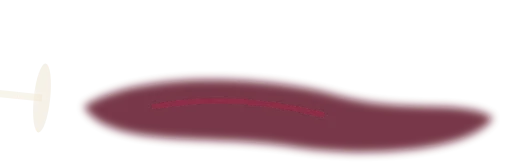
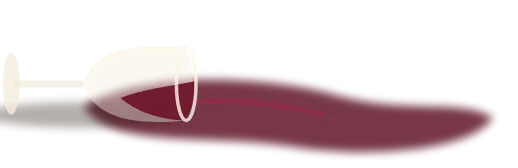
investigación: película del informe con dirección de arte de cine (111 s, acto 5 contado en escena)
Siluetas sin rasgos modeladas por la luz de la vela, salón ya desenfocado, franjas de cine con las etiquetas de alcance
arriba y el diálogo abajo, rótulos en zona limpia. Cada teléfono en una mano con muñeca, antebrazo y manga; toca la otra
mano de la misma persona. Acto 5 con el teléfono del mesero arriba a la derecha (Mesa 7 y su pista de cuatro estados):
abierta, cuenta cerrada, pagada (el cobro, fuera de Carta), mesa sucia y mesa limpia, que queda libre.
Recursos: 59 capas webp (610 KB) desde apoyo/cine/generar.mjs. verificar.mjs: 535 comprobaciones, 0 fallas.

Claude-Session: https://claude.ai/code/session_01T4zNEkueas1kpbmsMUXkGN

Changed region(s): [[0.0, 0.4464, 0.4015, 0.7738], [0.0, 0.3274, 0.0618, 0.5357]]

diff --git a/docs/informes/2026-11-14-planos-de-carta-v4/interactivo.html b/docs/informes/2026-11-14-planos-de-carta-v4/interactivo.html
@@ -8727,15 +8727,15 @@ const CAPAS = {
   "ana-silla": ["apoyo/cine/ana-silla.webp", 302, 562, 220, 520],
   "ana-cuerpo": ["apoyo/cine/ana-cuerpo.webp", 342, 562, 280, 520],
   "ana-cabeza": ["apoyo/cine/ana-cabeza.webp", 372, 428, 160, 190],
-  "ana-brazo": ["apoyo/cine/ana-brazo.webp", 422, 522, 300, 280],
-  "ana-brazo-cel": ["apoyo/cine/ana-brazo-cel.webp", 422, 522, 300, 280],
-  "ana-brazo-copa": ["apoyo/cine/ana-brazo-copa.webp", 422, 522, 300, 280],
+  "ana-brazo": ["apoyo/cine/ana-brazo.webp", 342, 422, 400, 380],
+  "ana-brazo-cel": ["apoyo/cine/ana-brazo-cel.webp", 342, 422, 400, 380],
+  "ana-brazo-copa": ["apoyo/cine/ana-brazo-copa.webp", 342, 422, 400, 380],
   "carlos-silla": ["apoyo/cine/carlos-silla.webp", 1398, 562, 220, 520],
   "carlos-cuerpo": ["apoyo/cine/carlos-cuerpo.webp", 1298, 562, 280, 520],
   "carlos-cabeza": ["apoyo/cine/carlos-cabeza.webp", 1388, 428, 160, 190],
-  "carlos-brazo": ["apoyo/cine/carlos-brazo.webp", 1198, 522, 300, 280],
-  "carlos-brazo-cel": ["apoyo/cine/carlos-brazo-cel.webp", 1198, 522, 300, 280],
-  "carlos-brazo-copa": ["apoyo/cine/carlos-brazo-copa.webp", 1198, 522, 300, 280],
+  "carlos-brazo": ["apoyo/cine/carlos-brazo.webp", 1178, 422, 400, 380],
+  "carlos-brazo-cel": ["apoyo/cine/carlos-brazo-cel.webp", 1178, 422, 400, 380],
+  "carlos-brazo-copa": ["apoyo/cine/carlos-brazo-copa.webp", 1178, 422, 400, 380],
   "mesero-cuerpo": ["apoyo/cine/mesero-cuerpo.webp", 958, 270, 340, 540],
   "mesero-cabeza": ["apoyo/cine/mesero-cabeza.webp", 1048, 162, 160, 190],
   "mesero-brazos": ["apoyo/cine/mesero-brazos.webp", 738, 440, 720, 380],
@@ -8786,7 +8786,8 @@ const CAPAS = {
 /* CAPAS:fin */
 const CAP = {bien: "apoyo/bienvenida.webp", menu: "apoyo/menu-inicio.webp"};
 const CI = n => CAPAS[n][0];
-/* [id, acto, duración en s, etiquetas, rótulo (la cursiva entre *), posición del rótulo, retraso del rótulo en s, segundos que dura el rótulo] */
+/* [id, acto, duración en s, etiquetas, rótulo (la cursiva entre *), posición del rótulo, retraso del rótulo en s, segundos que dura el rótulo,
+   fracción de la toma que sirve de cuadro fijo en el guion gráfico (0.82 si no se dice)] */
 const F3 = [["f3", "Fase 3"]];
 const TOMAS = [
   ["mesa", 1, 5.5, [["hoy", "hoy · el QR de cada mesa"]], ["Todo empieza en *la mesa*."], "hook", 0.6],
@@ -8799,13 +8800,13 @@ const TOMAS = [
   ["juntos", 3, 7, F3, ["La mesa *pide junta*."], "hook", 1.4],
   ["recomienda", 3, 7, [["vis", "visión · recomendar a otro de la mesa"]], ["Pásaselo *a Carlos*."], "centro"],
   ["confirma", 3, 4.5, F3, ["La mesa *llama al mesero*."], "centro"],
-  ["avisa", 4, 8, [["f3", "Fase 3"], ["vis", "visión · aviso con el teléfono bloqueado"]], ["Le vibra", "*el bolsillo*."], "izq", 0.2, 5.6],
+  ["avisa", 4, 8, [["f3", "Fase 3"], ["vis", "visión · aviso con el teléfono bloqueado"]], ["Le vibra", "*el bolsillo*."], "izq", 0.2, 5.6, 0.7],
   ["llega", 4, 6.5, F3, ["Confirma *y la manda*."], "arriba"],
   ["abierta", 5, 6.5, F3, ["Abierta"], "fase", 0.8],
   ["cerrada", 5, 6, F3, ["Cuenta *cerrada*"], "fase"],
   ["pagada", 5, 6.5, [["f3", "Fase 3"], ["ej", "el cobro, fuera de Carta"]], ["Pagada"], "fase", 3.6],
   ["sucia", 5, 5, F3, ["Mesa *sucia*"], "fase", 1.2],
-  ["limpia", 5, 5.5, F3, ["Mesa *limpia*"], "fase", 1.6, 4.3],
+  ["limpia", 5, 5.5, F3, ["Mesa *limpia*"], "fase", 1.6, 3.4],
   ["fin", 6, 5, [], [], ""],
 ];
 const ACTOS = [[1, "Llegar"], [2, "Tu carta"], [3, "La mesa"], [4, "El mesero"], [5, "El ciclo"], [6, "Fin"]];
@@ -8815,7 +8816,7 @@ const tomaIni = id => T0[TOMAS.findIndex(t => t[0] === id)];
 const ACT_INI = ACTOS.map(([n]) => T0[TOMAS.findIndex(t => t[1] === n)]);
 const ACT_FIN = ACTOS.map((_, k) => (k + 1 < ACTOS.length ? ACT_INI[k + 1] : TOT));
 /* instantes de guion gráfico (movimiento reducido): el momento de cada toma en que ya está todo en pantalla */
-const CLAVES = TOMAS.map((t, i) => T0[i] + t[2] * 0.82);
+const CLAVES = TOMAS.map((t, i) => T0[i] + t[2] * (t[8] || 0.82));
 let tI = 0, pausaI = false, rafI = 0, ultI = 0, ocultoT = 0, tlF = null;
 
 const cineCss = `
@@ -8839,7 +8840,7 @@ const cineCss = `
 #cine .buzz i{position:absolute;inset:0;border-radius:50%;border:4px solid #fdc34d;border-left-color:transparent;border-bottom-color:transparent}
 #cine .buzz i+i{inset:-14px}
 /* cine: grano, viñeta y franjas */
-#cine .grano{position:absolute;inset:0;z-index:5;background:url(${CI("grano")});opacity:.34;mix-blend-mode:overlay;pointer-events:none;animation:cgrano .5s steps(1) infinite}
+#cine .grano{position:absolute;inset:0;z-index:5;background:url(${CI("grano")});opacity:.09;pointer-events:none;animation:cgrano .5s steps(1) infinite}
 @keyframes cgrano{0%{background-position:0 0}25%{background-position:-90px 60px}50%{background-position:70px -110px}75%{background-position:-40px -50px}}
 @media(prefers-reduced-motion:reduce){#cine .grano{animation:none}}
 #cine .vin{position:absolute;left:0;right:0;top:100px;bottom:100px;z-index:5;pointer-events:none;background:radial-gradient(ellipse 76% 82% at 50% 54%,rgba(10,6,5,0) 50%,rgba(10,6,5,.66) 100%)}
@@ -9069,8 +9070,8 @@ const ico = {
 };
 const sb = (osc = false) => `<div class="sb${osc ? " osc" : ""}"><b>9:41</b><i></i><u></u></div>`;
 const cab = (mia = false) => `<div class="cab"><span class="lg">L</span>La Ceiba${mia ? `<span class="mia">Mi mesa <span class="av ca">A</span><span class="av cc">C</span><span class="bd">1</span></span>` : ""}</div>`;
-const cFila = (img, nom, pr, no = "") => `<div class="cfila${no ? " cfuera" : ""}"><img src="${CI("plato-" + img)}" alt=""><div><b>${nom}</b><small>${pr}</small></div>${no ? `<span class="cno">${no}</span>` : ""}</div>`;
-const tarjeta = (img, nom, pr, porq) => `<div class="tj"><div class="fo"><img src="${CI("plato-" + img)}" alt=""></div><div class="ctx"><b>${nom}</b><small>${porq}</small><span class="cpr">${pr}</span></div></div>`;
+const cRen = (img, nom, pr, no = "") => `<div class="cfila${no ? " cfuera" : ""}"><img src="${CI("plato-" + img)}" alt=""><div><b>${nom}</b><small>${pr}</small></div>${no ? `<span class="cno">${no}</span>` : ""}</div>`;
+const cTarj = (img, nom, pr, porq) => `<div class="tj"><div class="fo"><img src="${CI("plato-" + img)}" alt=""></div><div class="ctx"><b>${nom}</b><small>${porq}</small><span class="cpr">${pr}</span></div></div>`;
 
 const torno = () => `<div class="torno"><i class="som"></i><i class="aro360"></i>
   <div class="capa" style="transform:scaleY(.5)"><img src="${CI("torno-plato")}" alt=""></div>
@@ -9088,16 +9089,16 @@ const pantallas = () => `
   <div class="carga"><span>Afilando los cuchillos…</span><span>Calentando el comal…</span><span>Probando la salsa…</span></div>
   <div class="cchips"><span class="cchip">${ico.no}sin lácteos</span><span class="cchip">${ico.no}sin cacahuate</span></div>
   <div class="tel">${ico.tel}Se queda en tu teléfono</div>
-  <div class="clista">${cFila("aguachile", "Aguachile verde", "$210")}${cFila("enchiladas", "Enchiladas suizas", "$165", "lácteos")}${cFila("pescado", "Pescado a la talla", "$245")}${cFila("mole", "Mole negro", "$190", "cacahuate")}${cFila("ensalada", "Ensalada de betabel", "$140")}${cFila("tacos", "Tacos de pescado", "$175")}</div>
+  <div class="clista">${cRen("aguachile", "Aguachile verde", "$210")}${cRen("enchiladas", "Enchiladas suizas", "$165", "lácteos")}${cRen("pescado", "Pescado a la talla", "$245")}${cRen("mole", "Mole negro", "$190", "cacahuate")}${cRen("ensalada", "Ensalada de betabel", "$140")}${cRen("tacos", "Tacos de pescado", "$175")}</div>
   <div class="clisto">${ico.ok}Listo: tu carta</div>
 </div>
 <div class="cs cx pTop3">${sb()}${cab(true)}
   <div class="sec"><h4>Top 3 para ti</h4><span class="es">✦</span></div>
   <div class="porq">${ico.tel}Por lo que te gustó en otros lugares</div>
-  <div class="tira"><div class="rail">${tarjeta("pescado", "Pescado a la talla", "$245", "Te gustó el zarandeado en El Faro")}${tarjeta("aguachile", "Aguachile verde", "$210", "Pediste ceviche 3 veces")}${tarjeta("ensalada", "Ensalada de betabel", "$140", "Sin lácteos, como te gusta")}</div></div>
+  <div class="tira"><div class="rail">${cTarj("pescado", "Pescado a la talla", "$245", "Te gustó el zarandeado en El Faro")}${cTarj("aguachile", "Aguachile verde", "$210", "Pediste ceviche 3 veces")}${cTarj("ensalada", "Ensalada de betabel", "$140", "Sin lácteos, como te gusta")}</div></div>
   <div class="sec"><h4>La carta</h4></div>
   <div class="cats"><span>Para empezar</span><span>Del mar</span><span>Postres</span></div>
-  <div class="clista">${cFila("tacos", "Tacos de pescado", "$175")}${cFila("flan", "Flan de la casa", "$85")}</div>
+  <div class="clista">${cRen("tacos", "Tacos de pescado", "$175")}${cRen("flan", "Flan de la casa", "$85")}</div>
 </div>
 <div class="cs cx pPlato">${torno()}
   ${sb(true)}<span class="vuelta">← La carta</span>
@@ -9113,7 +9114,7 @@ const pantallas = () => `
 <div class="cs cx pAviso">${sb()}${cab(true)}
   <div class="avisoT">${ico.chispa}<span>Llegaste hace poco a Carta: aún sé poco de tus gustos.</span></div>
   <div class="sec"><h4>Platos fuertes</h4></div>
-  <div class="clista">${cFila("res", "Arrachera", "$230")}${cFila("tacos", "Tacos de pescado", "$175")}${cFila("aguachile", "Aguachile verde", "$210")}</div>
+  <div class="clista">${cRen("res", "Arrachera", "$230")}${cRen("tacos", "Tacos de pescado", "$175")}${cRen("aguachile", "Aguachile verde", "$210")}</div>
 </div>
 <div class="cs cx pRes"><div class="hero"><img src="${CI("plato-res")}" alt=""></div>${sb(true)}<span class="vuelta">← La carta</span>
   <div class="ficha"><h4>Arrachera</h4><div class="cpr">$230</div><div class="reco">Para compartir, al término que pidas.</div></div>
@@ -9126,7 +9127,7 @@ ${listos("pListosA")}
 const pantallasB = () => `
 <div class="cs cx pCarlos">${sb()}${cab(true)}
   <div class="hola"><span class="av cc">C</span><h4>Hola, Carlos</h4></div>
-  <div class="clista">${cFila("tacos", "Tacos de pescado", "$175")}${cFila("aguachile", "Aguachile verde", "$210")}${cFila("flan", "Flan de la casa", "$85")}</div>
+  <div class="clista">${cRen("tacos", "Tacos de pescado", "$175")}${cRen("aguachile", "Aguachile verde", "$210")}${cRen("flan", "Flan de la casa", "$85")}</div>
   <div class="reco2"><div class="de"><span class="av ca">A</span>Ana te recomienda</div><div class="pl"><img src="${CI("plato-res")}" alt=""><div><b>Arrachera</b><br><small>$230</small></div></div><div class="me">Me encanta</div></div>
   <div class="toast">${ico.ok}Arrachera, en tu orden</div>
   <div class="btn2 v conf">Confirmar mi orden · $230</div>
@@ -9499,13 +9500,13 @@ function filmLinea() {
   tl.to(q(".gm"), {x: 220, autoAlpha: 0, duration: 0.9, ease: "power2.in"}, t + 2.9);
   cam(t + 3.0, C1, 2.2);
   tl.to(q(".pip"), {autoAlpha: 0, x: 60, duration: 0.6, ease: "power2.in"}, t + 3.2);
-  sale(".reloj, .eLibre", t + 4.2, 0.4);
-  tl.fromTo(q(".k-nuevos"), {autoAlpha: 0, x: -360}, {autoAlpha: 1, x: 0, duration: 2.0, ease: "power2.out", immediateRender: false}, t + 3.4);
+  sale(".eLibre", t + 3.3, 0.3); sale(".reloj", t + 4.2, 0.4);
+  tl.fromTo(q(".k-nuevos"), {autoAlpha: 0, x: -360}, {autoAlpha: 1, x: 0, duration: 1.9, ease: "power2.out", immediateRender: false}, t + 3.6);
   /* cierre */
   t = T("fin");
   sale(".sala", t + 0.1, 0.9);
-  tl.set(q(".marca"), {autoAlpha: 1}, t + 0.7);
-  tl.fromTo(q(".marca b, .marca i, .marca span"), {y: 24, autoAlpha: 0}, {y: 0, autoAlpha: 1, duration: 1.0, ease: "power3.out", stagger: 0.3, immediateRender: false}, t + 0.7);
+  tl.set(q(".marca"), {autoAlpha: 1}, t + 1.1);
+  tl.fromTo(q(".marca b, .marca i, .marca span"), {y: 24, autoAlpha: 0}, {y: 0, autoAlpha: 1, duration: 1.0, ease: "power3.out", stagger: 0.3, immediateRender: false}, t + 1.1);
   tl.set({}, {}, TOT);
   return tl;
 }
@@ -9518,7 +9519,7 @@ function pintaIntro() {
   $$("#intro .barras i b").forEach((b, i) => { b.style.width = (i < k ? 100 : i === k ? 100 * (s - ACT_INI[i]) / (ACT_FIN[i] - ACT_INI[i]) : 0) + "%"; });
   $$("#intro .cactos [data-n]").forEach(b => b.classList.toggle("on", +b.dataset.n === k));
   const bp = $("#introPausa"); if (bp) bp.textContent = pausaI ? "▶" : "❚❚";
-  const cta = $("#introCta"); if (cta) cta.hidden = s < tomaIni("fin") + 1.6;
+  const cta = $("#introCta"); if (cta) cta.hidden = s < tomaIni("fin") + 2.6;
 }
 function irActo(k) { tI = (REDUCE ? CLAVES[TOMAS.findIndex(t => t[1] === ACTOS[k][0])] : ACT_INI[k]) * 1000; pintaIntro(); }
 function saltaI(ms) {

diff --git a/docs/informes/2026-11-14-planos-de-carta-v4/js/e2_film.js b/docs/informes/2026-11-14-planos-de-carta-v4/js/e2_film.js
@@ -16,15 +16,15 @@ const CAPAS = {
   "ana-silla": ["apoyo/cine/ana-silla.webp", 302, 562, 220, 520],
   "ana-cuerpo": ["apoyo/cine/ana-cuerpo.webp", 342, 562, 280, 520],
   "ana-cabeza": ["apoyo/cine/ana-cabeza.webp", 372, 428, 160, 190],
-  "ana-brazo": ["apoyo/cine/ana-brazo.webp", 422, 522, 300, 280],
-  "ana-brazo-cel": ["apoyo/cine/ana-brazo-cel.webp", 422, 522, 300, 280],
-  "ana-brazo-copa": ["apoyo/cine/ana-brazo-copa.webp", 422, 522, 300, 280],
+  "ana-brazo": ["apoyo/cine/ana-brazo.webp", 342, 422, 400, 380],
+  "ana-brazo-cel": ["apoyo/cine/ana-brazo-cel.webp", 342, 422, 400, 380],
+  "ana-brazo-copa": ["apoyo/cine/ana-brazo-copa.webp", 342, 422, 400, 380],
   "carlos-silla": ["apoyo/cine/carlos-silla.webp", 1398, 562, 220, 520],
   "carlos-cuerpo": ["apoyo/cine/carlos-cuerpo.webp", 1298, 562, 280, 520],
   "carlos-cabeza": ["apoyo/cine/carlos-cabeza.webp", 1388, 428, 160, 190],
-  "carlos-brazo": ["apoyo/cine/carlos-brazo.webp", 1198, 522, 300, 280],
-  "carlos-brazo-cel": ["apoyo/cine/carlos-brazo-cel.webp", 1198, 522, 300, 280],
-  "carlos-brazo-copa": ["apoyo/cine/carlos-brazo-copa.webp", 1198, 522, 300, 280],
+  "carlos-brazo": ["apoyo/cine/carlos-brazo.webp", 1178, 422, 400, 380],
+  "carlos-brazo-cel": ["apoyo/cine/carlos-brazo-cel.webp", 1178, 422, 400, 380],
+  "carlos-brazo-copa": ["apoyo/cine/carlos-brazo-copa.webp", 1178, 422, 400, 380],
   "mesero-cuerpo": ["apoyo/cine/mesero-cuerpo.webp", 958, 270, 340, 540],
   "mesero-cabeza": ["apoyo/cine/mesero-cabeza.webp", 1048, 162, 160, 190],
   "mesero-brazos": ["apoyo/cine/mesero-brazos.webp", 738, 440, 720, 380],
@@ -75,7 +75,8 @@ const CAPAS = {
 /* CAPAS:fin */
 const CAP = {bien: "apoyo/bienvenida.webp", menu: "apoyo/menu-inicio.webp"};
 const CI = n => CAPAS[n][0];
-/* [id, acto, duración en s, etiquetas, rótulo (la cursiva entre *), posición del rótulo, retraso del rótulo en s, segundos que dura el rótulo] */
+/* [id, acto, duración en s, etiquetas, rótulo (la cursiva entre *), posición del rótulo, retraso del rótulo en s, segundos que dura el rótulo,
+   fracción de la toma que sirve de cuadro fijo en el guion gráfico (0.82 si no se dice)] */
 const F3 = [["f3", "Fase 3"]];
 const TOMAS = [
   ["mesa", 1, 5.5, [["hoy", "hoy · el QR de cada mesa"]], ["Todo empieza en *la mesa*."], "hook", 0.6],
@@ -88,13 +89,13 @@ const TOMAS = [
   ["juntos", 3, 7, F3, ["La mesa *pide junta*."], "hook", 1.4],
   ["recomienda", 3, 7, [["vis", "visión · recomendar a otro de la mesa"]], ["Pásaselo *a Carlos*."], "centro"],
   ["confirma", 3, 4.5, F3, ["La mesa *llama al mesero*."], "centro"],
-  ["avisa", 4, 8, [["f3", "Fase 3"], ["vis", "visión · aviso con el teléfono bloqueado"]], ["Le vibra", "*el bolsillo*."], "izq", 0.2, 5.6],
+  ["avisa", 4, 8, [["f3", "Fase 3"], ["vis", "visión · aviso con el teléfono bloqueado"]], ["Le vibra", "*el bolsillo*."], "izq", 0.2, 5.6, 0.7],
   ["llega", 4, 6.5, F3, ["Confirma *y la manda*."], "arriba"],
   ["abierta", 5, 6.5, F3, ["Abierta"], "fase", 0.8],
   ["cerrada", 5, 6, F3, ["Cuenta *cerrada*"], "fase"],
   ["pagada", 5, 6.5, [["f3", "Fase 3"], ["ej", "el cobro, fuera de Carta"]], ["Pagada"], "fase", 3.6],
   ["sucia", 5, 5, F3, ["Mesa *sucia*"], "fase", 1.2],
-  ["limpia", 5, 5.5, F3, ["Mesa *limpia*"], "fase", 1.6, 4.3],
+  ["limpia", 5, 5.5, F3, ["Mesa *limpia*"], "fase", 1.6, 3.4],
   ["fin", 6, 5, [], [], ""],
 ];
 const ACTOS = [[1, "Llegar"], [2, "Tu carta"], [3, "La mesa"], [4, "El mesero"], [5, "El ciclo"], [6, "Fin"]];
@@ -104,7 +105,7 @@ const tomaIni = id => T0[TOMAS.findIndex(t => t[0] === id)];
 const ACT_INI = ACTOS.map(([n]) => T0[TOMAS.findIndex(t => t[1] === n)]);
 const ACT_FIN = ACTOS.map((_, k) => (k + 1 < ACTOS.length ? ACT_INI[k + 1] : TOT));
 /* instantes de guion gráfico (movimiento reducido): el momento de cada toma en que ya está todo en pantalla */
-const CLAVES = TOMAS.map((t, i) => T0[i] + t[2] * 0.82);
+const CLAVES = TOMAS.map((t, i) => T0[i] + t[2] * (t[8] || 0.82));
 let tI = 0, pausaI = false, rafI = 0, ultI = 0, ocultoT = 0, tlF = null;
 
 const cineCss = `
@@ -128,7 +129,7 @@ const cineCss = `
 #cine .buzz i{position:absolute;inset:0;border-radius:50%;border:4px solid #fdc34d;border-left-color:transparent;border-bottom-color:transparent}
 #cine .buzz i+i{inset:-14px}
 /* cine: grano, viñeta y franjas */
-#cine .grano{position:absolute;inset:0;z-index:5;background:url(${CI("grano")});opacity:.34;mix-blend-mode:overlay;pointer-events:none;animation:cgrano .5s steps(1) infinite}
+#cine .grano{position:absolute;inset:0;z-index:5;background:url(${CI("grano")});opacity:.09;pointer-events:none;animation:cgrano .5s steps(1) infinite}
 @keyframes cgrano{0%{background-position:0 0}25%{background-position:-90px 60px}50%{background-position:70px -110px}75%{background-position:-40px -50px}}
 @media(prefers-reduced-motion:reduce){#cine .grano{animation:none}}
 #cine .vin{position:absolute;left:0;right:0;top:100px;bottom:100px;z-index:5;pointer-events:none;background:radial-gradient(ellipse 76% 82% at 50% 54%,rgba(10,6,5,0) 50%,rgba(10,6,5,.66) 100%)}
@@ -358,8 +359,8 @@ const ico = {
 };
 const sb = (osc = false) => `<div class="sb${osc ? " osc" : ""}"><b>9:41</b><i></i><u></u></div>`;
 const cab = (mia = false) => `<div class="cab"><span class="lg">L</span>La Ceiba${mia ? `<span class="mia">Mi mesa <span class="av ca">A</span><span class="av cc">C</span><span class="bd">1</span></span>` : ""}</div>`;
-const cFila = (img, nom, pr, no = "") => `<div class="cfila${no ? " cfuera" : ""}"><img src="${CI("plato-" + img)}" alt=""><div><b>${nom}</b><small>${pr}</small></div>${no ? `<span class="cno">${no}</span>` : ""}</div>`;
-const tarjeta = (img, nom, pr, porq) => `<div class="tj"><div class="fo"><img src="${CI("plato-" + img)}" alt=""></div><div class="ctx"><b>${nom}</b><small>${porq}</small><span class="cpr">${pr}</span></div></div>`;
+const cRen = (img, nom, pr, no = "") => `<div class="cfila${no ? " cfuera" : ""}"><img src="${CI("plato-" + img)}" alt=""><div><b>${nom}</b><small>${pr}</small></div>${no ? `<span class="cno">${no}</span>` : ""}</div>`;
+const cTarj = (img, nom, pr, porq) => `<div class="tj"><div class="fo"><img src="${CI("plato-" + img)}" alt=""></div><div class="ctx"><b>${nom}</b><small>${porq}</small><span class="cpr">${pr}</span></div></div>`;
 
 const torno = () => `<div class="torno"><i class="som"></i><i class="aro360"></i>
   <div class="capa" style="transform:scaleY(.5)"><img src="${CI("torno-plato")}" alt=""></div>
@@ -377,16 +378,16 @@ const pantallas = () => `
   <div class="carga"><span>Afilando los cuchillos…</span><span>Calentando el comal…</span><span>Probando la salsa…</span></div>
   <div class="cchips"><span class="cchip">${ico.no}sin lácteos</span><span class="cchip">${ico.no}sin cacahuate</span></div>
   <div class="tel">${ico.tel}Se queda en tu teléfono</div>
-  <div class="clista">${cFila("aguachile", "Aguachile verde", "$210")}${cFila("enchiladas", "Enchiladas suizas", "$165", "lácteos")}${cFila("pescado", "Pescado a la talla", "$245")}${cFila("mole", "Mole negro", "$190", "cacahuate")}${cFila("ensalada", "Ensalada de betabel", "$140")}${cFila("tacos", "Tacos de pescado", "$175")}</div>
+  <div class="clista">${cRen("aguachile", "Aguachile verde", "$210")}${cRen("enchiladas", "Enchiladas suizas", "$165", "lácteos")}${cRen("pescado", "Pescado a la talla", "$245")}${cRen("mole", "Mole negro", "$190", "cacahuate")}${cRen("ensalada", "Ensalada de betabel", "$140")}${cRen("tacos", "Tacos de pescado", "$175")}</div>
   <div class="clisto">${ico.ok}Listo: tu carta</div>
 </div>
 <div class="cs cx pTop3">${sb()}${cab(true)}
   <div class="sec"><h4>Top 3 para ti</h4><span class="es">✦</span></div>
   <div class="porq">${ico.tel}Por lo que te gustó en otros lugares</div>
-  <div class="tira"><div class="rail">${tarjeta("pescado", "Pescado a la talla", "$245", "Te gustó el zarandeado en El Faro")}${tarjeta("aguachile", "Aguachile verde", "$210", "Pediste ceviche 3 veces")}${tarjeta("ensalada", "Ensalada de betabel", "$140", "Sin lácteos, como te gusta")}</div></div>
+  <div class="tira"><div class="rail">${cTarj("pescado", "Pescado a la talla", "$245", "Te gustó el zarandeado en El Faro")}${cTarj("aguachile", "Aguachile verde", "$210", "Pediste ceviche 3 veces")}${cTarj("ensalada", "Ensalada de betabel", "$140", "Sin lácteos, como te gusta")}</div></div>
   <div class="sec"><h4>La carta</h4></div>
   <div class="cats"><span>Para empezar</span><span>Del mar</span><span>Postres</span></div>
-  <div class="clista">${cFila("tacos", "Tacos de pescado", "$175")}${cFila("flan", "Flan de la casa", "$85")}</div>
+  <div class="clista">${cRen("tacos", "Tacos de pescado", "$175")}${cRen("flan", "Flan de la casa", "$85")}</div>
 </div>
 <div class="cs cx pPlato">${torno()}
   ${sb(true)}<span class="vuelta">← La carta</span>
@@ -402,7 +403,7 @@ const pantallas = () => `
 <div class="cs cx pAviso">${sb()}${cab(true)}
   <div class="avisoT">${ico.chispa}<span>Llegaste hace poco a Carta: aún sé poco de tus gustos.</span></div>
   <div class="sec"><h4>Platos fuertes</h4></div>
-  <div class="clista">${cFila("res", "Arrachera", "$230")}${cFila("tacos", "Tacos de pescado", "$175")}${cFila("aguachile", "Aguachile verde", "$210")}</div>
+  <div class="clista">${cRen("res", "Arrachera", "$230")}${cRen("tacos", "Tacos de pescado", "$175")}${cRen("aguachile", "Aguachile verde", "$210")}</div>
 </div>
 <div class="cs cx pRes"><div class="hero"><img src="${CI("plato-res")}" alt=""></div>${sb(true)}<span class="vuelta">← La carta</span>
   <div class="ficha"><h4>Arrachera</h4><div class="cpr">$230</div><div class="reco">Para compartir, al término que pidas.</div></div>
@@ -415,7 +416,7 @@ ${listos("pListosA")}
 const pantallasB = () => `
 <div class="cs cx pCarlos">${sb()}${cab(true)}
   <div class="hola"><span class="av cc">C</span><h4>Hola, Carlos</h4></div>
-  <div class="clista">${cFila("tacos", "Tacos de pescado", "$175")}${cFila("aguachile", "Aguachile verde", "$210")}${cFila("flan", "Flan de la casa", "$85")}</div>
+  <div class="clista">${cRen("tacos", "Tacos de pescado", "$175")}${cRen("aguachile", "Aguachile verde", "$210")}${cRen("flan", "Flan de la casa", "$85")}</div>
   <div class="reco2"><div class="de"><span class="av ca">A</span>Ana te recomienda</div><div class="pl"><img src="${CI("plato-res")}" alt=""><div><b>Arrachera</b><br><small>$230</small></div></div><div class="me">Me encanta</div></div>
   <div class="toast">${ico.ok}Arrachera, en tu orden</div>
   <div class="btn2 v conf">Confirmar mi orden · $230</div>
@@ -788,13 +789,13 @@ function filmLinea() {
   tl.to(q(".gm"), {x: 220, autoAlpha: 0, duration: 0.9, ease: "power2.in"}, t + 2.9);
   cam(t + 3.0, C1, 2.2);
   tl.to(q(".pip"), {autoAlpha: 0, x: 60, duration: 0.6, ease: "power2.in"}, t + 3.2);
-  sale(".reloj, .eLibre", t + 4.2, 0.4);
-  tl.fromTo(q(".k-nuevos"), {autoAlpha: 0, x: -360}, {autoAlpha: 1, x: 0, duration: 2.0, ease: "power2.out", immediateRender: false}, t + 3.4);
+  sale(".eLibre", t + 3.3, 0.3); sale(".reloj", t + 4.2, 0.4);
+  tl.fromTo(q(".k-nuevos"), {autoAlpha: 0, x: -360}, {autoAlpha: 1, x: 0, duration: 1.9, ease: "power2.out", immediateRender: false}, t + 3.6);
   /* cierre */
   t = T("fin");
   sale(".sala", t + 0.1, 0.9);
-  tl.set(q(".marca"), {autoAlpha: 1}, t + 0.7);
-  tl.fromTo(q(".marca b, .marca i, .marca span"), {y: 24, autoAlpha: 0}, {y: 0, autoAlpha: 1, duration: 1.0, ease: "power3.out", stagger: 0.3, immediateRender: false}, t + 0.7);
+  tl.set(q(".marca"), {autoAlpha: 1}, t + 1.1);
+  tl.fromTo(q(".marca b, .marca i, .marca span"), {y: 24, autoAlpha: 0}, {y: 0, autoAlpha: 1, duration: 1.0, ease: "power3.out", stagger: 0.3, immediateRender: false}, t + 1.1);
   tl.set({}, {}, TOT);
   return tl;
 }
@@ -807,7 +808,7 @@ function pintaIntro() {
   $$("#intro .barras i b").forEach((b, i) => { b.style.width = (i < k ? 100 : i === k ? 100 * (s - ACT_INI[i]) / (ACT_FIN[i] - ACT_INI[i]) : 0) + "%"; });
   $$("#intro .cactos [data-n]").forEach(b => b.classList.toggle("on", +b.dataset.n === k));
   const bp = $("#introPausa"); if (bp) bp.textContent = pausaI ? "▶" : "❚❚";
-  const cta = $("#introCta"); if (cta) cta.hidden = s < tomaIni("fin") + 1.6;
+  const cta = $("#introCta"); if (cta) cta.hidden = s < tomaIni("fin") + 2.6;
 }
 function irActo(k) { tI = (REDUCE ? CLAVES[TOMAS.findIndex(t => t[1] === ACTOS[k][0])] : ACT_INI[k]) * 1000; pintaIntro(); }
 function saltaI(ms) {
